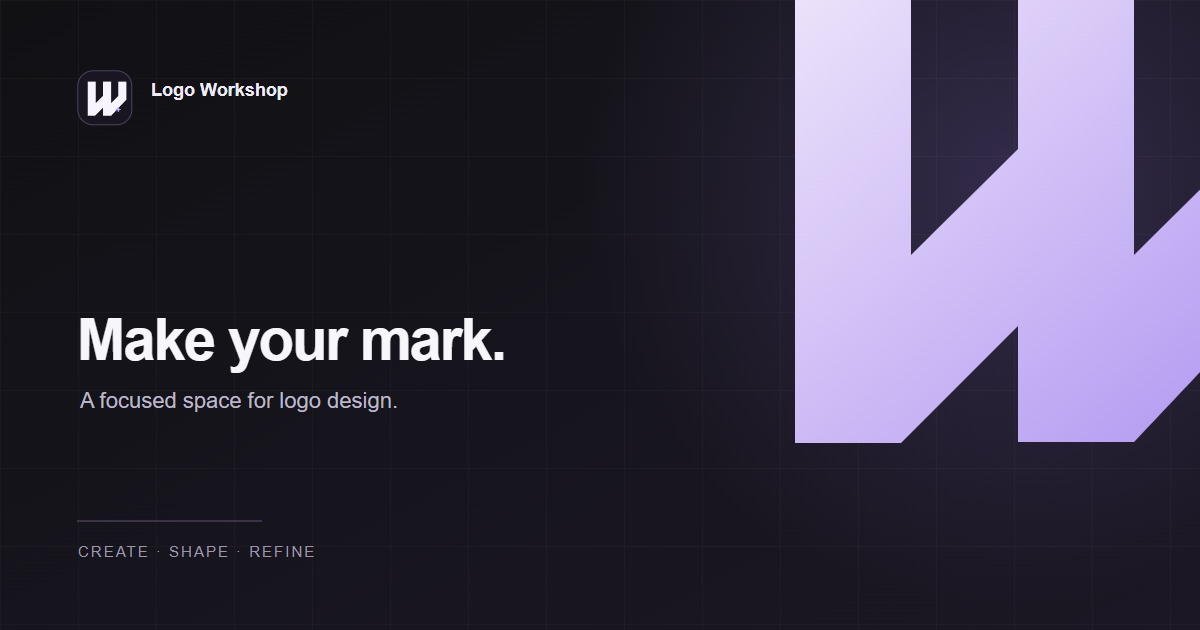
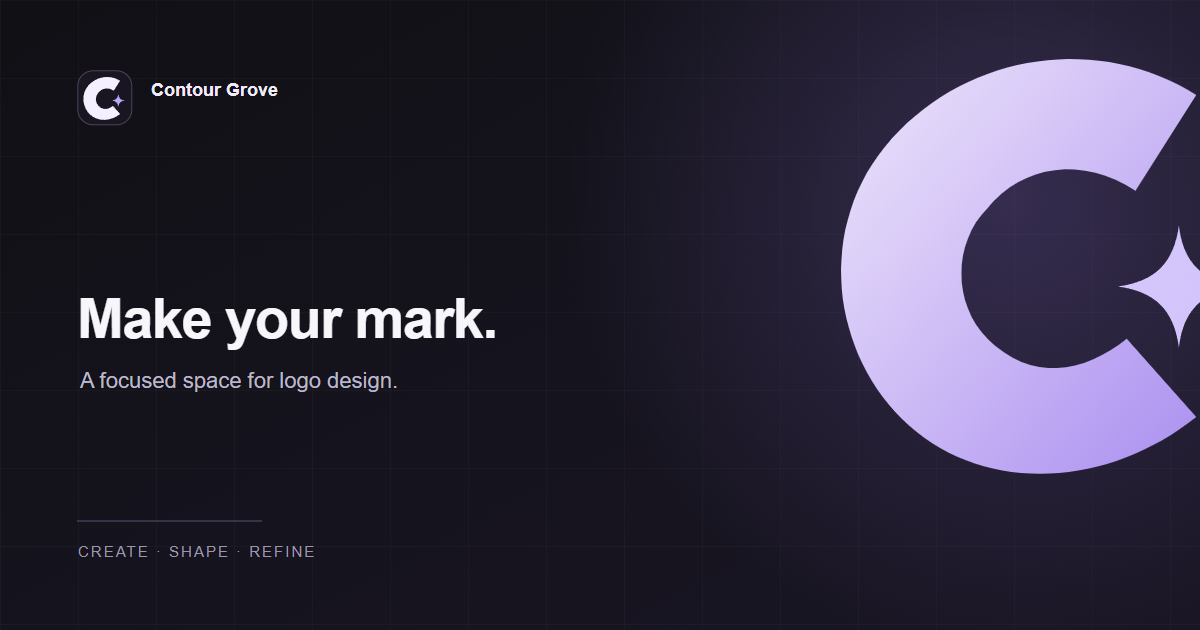
Rebrand editor as Contour Grove

Changed region(s): [[0.6475, 0.0, 1.0, 0.754], [0.0617, 0.4524, 0.4317, 0.6635], [0.0617, 0.1206, 0.2467, 0.2111]]

diff --git a/index.html b/index.html
@@ -6,19 +6,26 @@
     <meta name="theme-color" content="#111112" />
     <meta
       name="description"
-      content="A local-first workspace to take apart, edit, and restyle a logo."
+      content="A focused space to create, shape, and refine a logo."
     />
     <link rel="icon" type="image/png" href="./favicon.png" />
     <link rel="icon" type="image/svg+xml" href="./favicon-animated.svg" />
     <link rel="apple-touch-icon" href="./apple-touch-icon.png" />
     <meta property="og:type" content="website" />
-    <meta property="og:title" content="Logo Workshop" />
+    <meta property="og:title" content="Contour Grove" />
     <meta
       property="og:description"
       content="A focused space for logo design."
     />
-    <meta name="twitter:card" content="summary" />
-    <title>Logo Workshop — make it your own</title>
+    <meta
+      property="og:image"
+      content="https://logo-workshop-two.vercel.app/social-preview.png"
+    />
+    <meta property="og:image:width" content="1200" />
+    <meta property="og:image:height" content="630" />
+    <meta property="og:image:alt" content="Contour Grove: Make your mark." />
+    <meta name="twitter:card" content="summary_large_image" />
+    <title>Contour Grove — make it your own</title>
   </head>
   <body>
     <div id="root"></div>

diff --git a/src/App.tsx b/src/App.tsx
@@ -474,7 +474,7 @@ export default function App() {
       replace({
         schemaVersion: 1,
         name: "Untitled logo",
-        source: { name: "Created in Logo Workshop", text: "" },
+        source: { name: "Created in Contour Grove", text: "" },
         viewBox: [0, 0, 1024, 768],
         background: null,
         parts: [],
@@ -954,7 +954,7 @@ export default function App() {
           <span className="brand-mark">
             <img src={`${import.meta.env.BASE_URL}favicon.svg`} alt="" />
           </span>
-          <span>Logo Workshop</span>
+          <span>Contour Grove</span>
         </a>
         <h1 className="sr-only">Logo studio</h1>
         <StudioMenu label="File" className="file-menu">

diff --git a/tests/brand-assets.spec.ts b/tests/brand-assets.spec.ts
@@ -21,7 +21,15 @@ test("brand and preview assets load with honest metadata", async ({
   );
   await expect(page.locator('meta[property="og:title"]')).toHaveAttribute(
     "content",
-    "Logo Workshop",
+    "Contour Grove",
+  );
+  await expect(page.locator('meta[property="og:image"]')).toHaveAttribute(
+    "content",
+    "https://logo-workshop-two.vercel.app/social-preview.png",
+  );
+  await expect(page.locator('meta[name="twitter:card"]')).toHaveAttribute(
+    "content",
+    "summary_large_image",
   );
   const response = await request.get("/social-preview.png");
   expect(response.ok()).toBe(true);

diff --git a/src/storage/database.ts b/src/storage/database.ts
@@ -8,7 +8,7 @@ function database(): Promise<IDBDatabase> {
     request.onsuccess = () => resolve(request.result);
     request.onerror = () => reject(request.error);
     request.onblocked = () =>
-      reject(Error("Close older Logo Workshop tabs to enable autosave."));
+      reject(Error("Close older Contour Grove tabs to enable autosave."));
   });
 }
 export async function saveLocal(project: Project): Promise<void> {

diff --git a/src/redesign.css b/src/redesign.css
@@ -1,4 +1,4 @@
-/* Logo Workshop — desktop design system. Artwork and canvas geometry are untouched. */
+/* Contour Grove — desktop design system. Artwork and canvas geometry are untouched. */
 :root {
   --ui-bg: #101011;
   --ui-panel: #19191b;

diff --git a/README.md b/README.md
@@ -1,7 +1,7 @@
 <div align="center">
-  <img src="public/social-preview.png" alt="Logo Workshop: Make your mark" width="100%" />
+  <img src="public/social-preview.png" alt="Contour Grove: Make your mark" width="100%" />
 
-# Logo Workshop
+# Contour Grove
 
 **A focused space for logo design.**
 
@@ -10,9 +10,9 @@ Create, shape and refine a mark without losing sight of the idea.
 
 ---
 
-Logo Workshop is a browser-based editor built around one job: making logos. Draw a shape, bring in a reference, adjust the details, and export when it feels right. Your work stays in your browser unless you choose to export it.
+Contour Grove is a browser-based editor built around one job: making logos. Draw a shape, bring in a reference, adjust the details, and export when it feels right. Your work stays in your browser unless you choose to export it.
 
-> **A work in progress:** Logo Workshop is an early, local-first editor—not yet a full replacement for Figma. Please keep project backups and check the limitations below before relying on it for important work.
+> **A work in progress:** Contour Grove is an early, local-first editor—not yet a full replacement for Figma. Please keep project backups and check the limitations below before relying on it for important work.
 
 ## Make something
 
@@ -25,7 +25,7 @@ Logo Workshop is a browser-based editor built around one job: making logos. Draw
 
 ## Start designing
 
-1. Open Logo Workshop and start with the built-in example or a blank project.
+1. Open Contour Grove and start with the built-in example or a blank project.
 2. Use the tools beside the canvas to create, select or edit shapes. Add text or import an image from **Add**.
 3. Select an item to change its properties. Right-click a shape or layer for more actions.
 4. Save a project backup while you work. When you're ready to share the artwork, choose **Export**.
